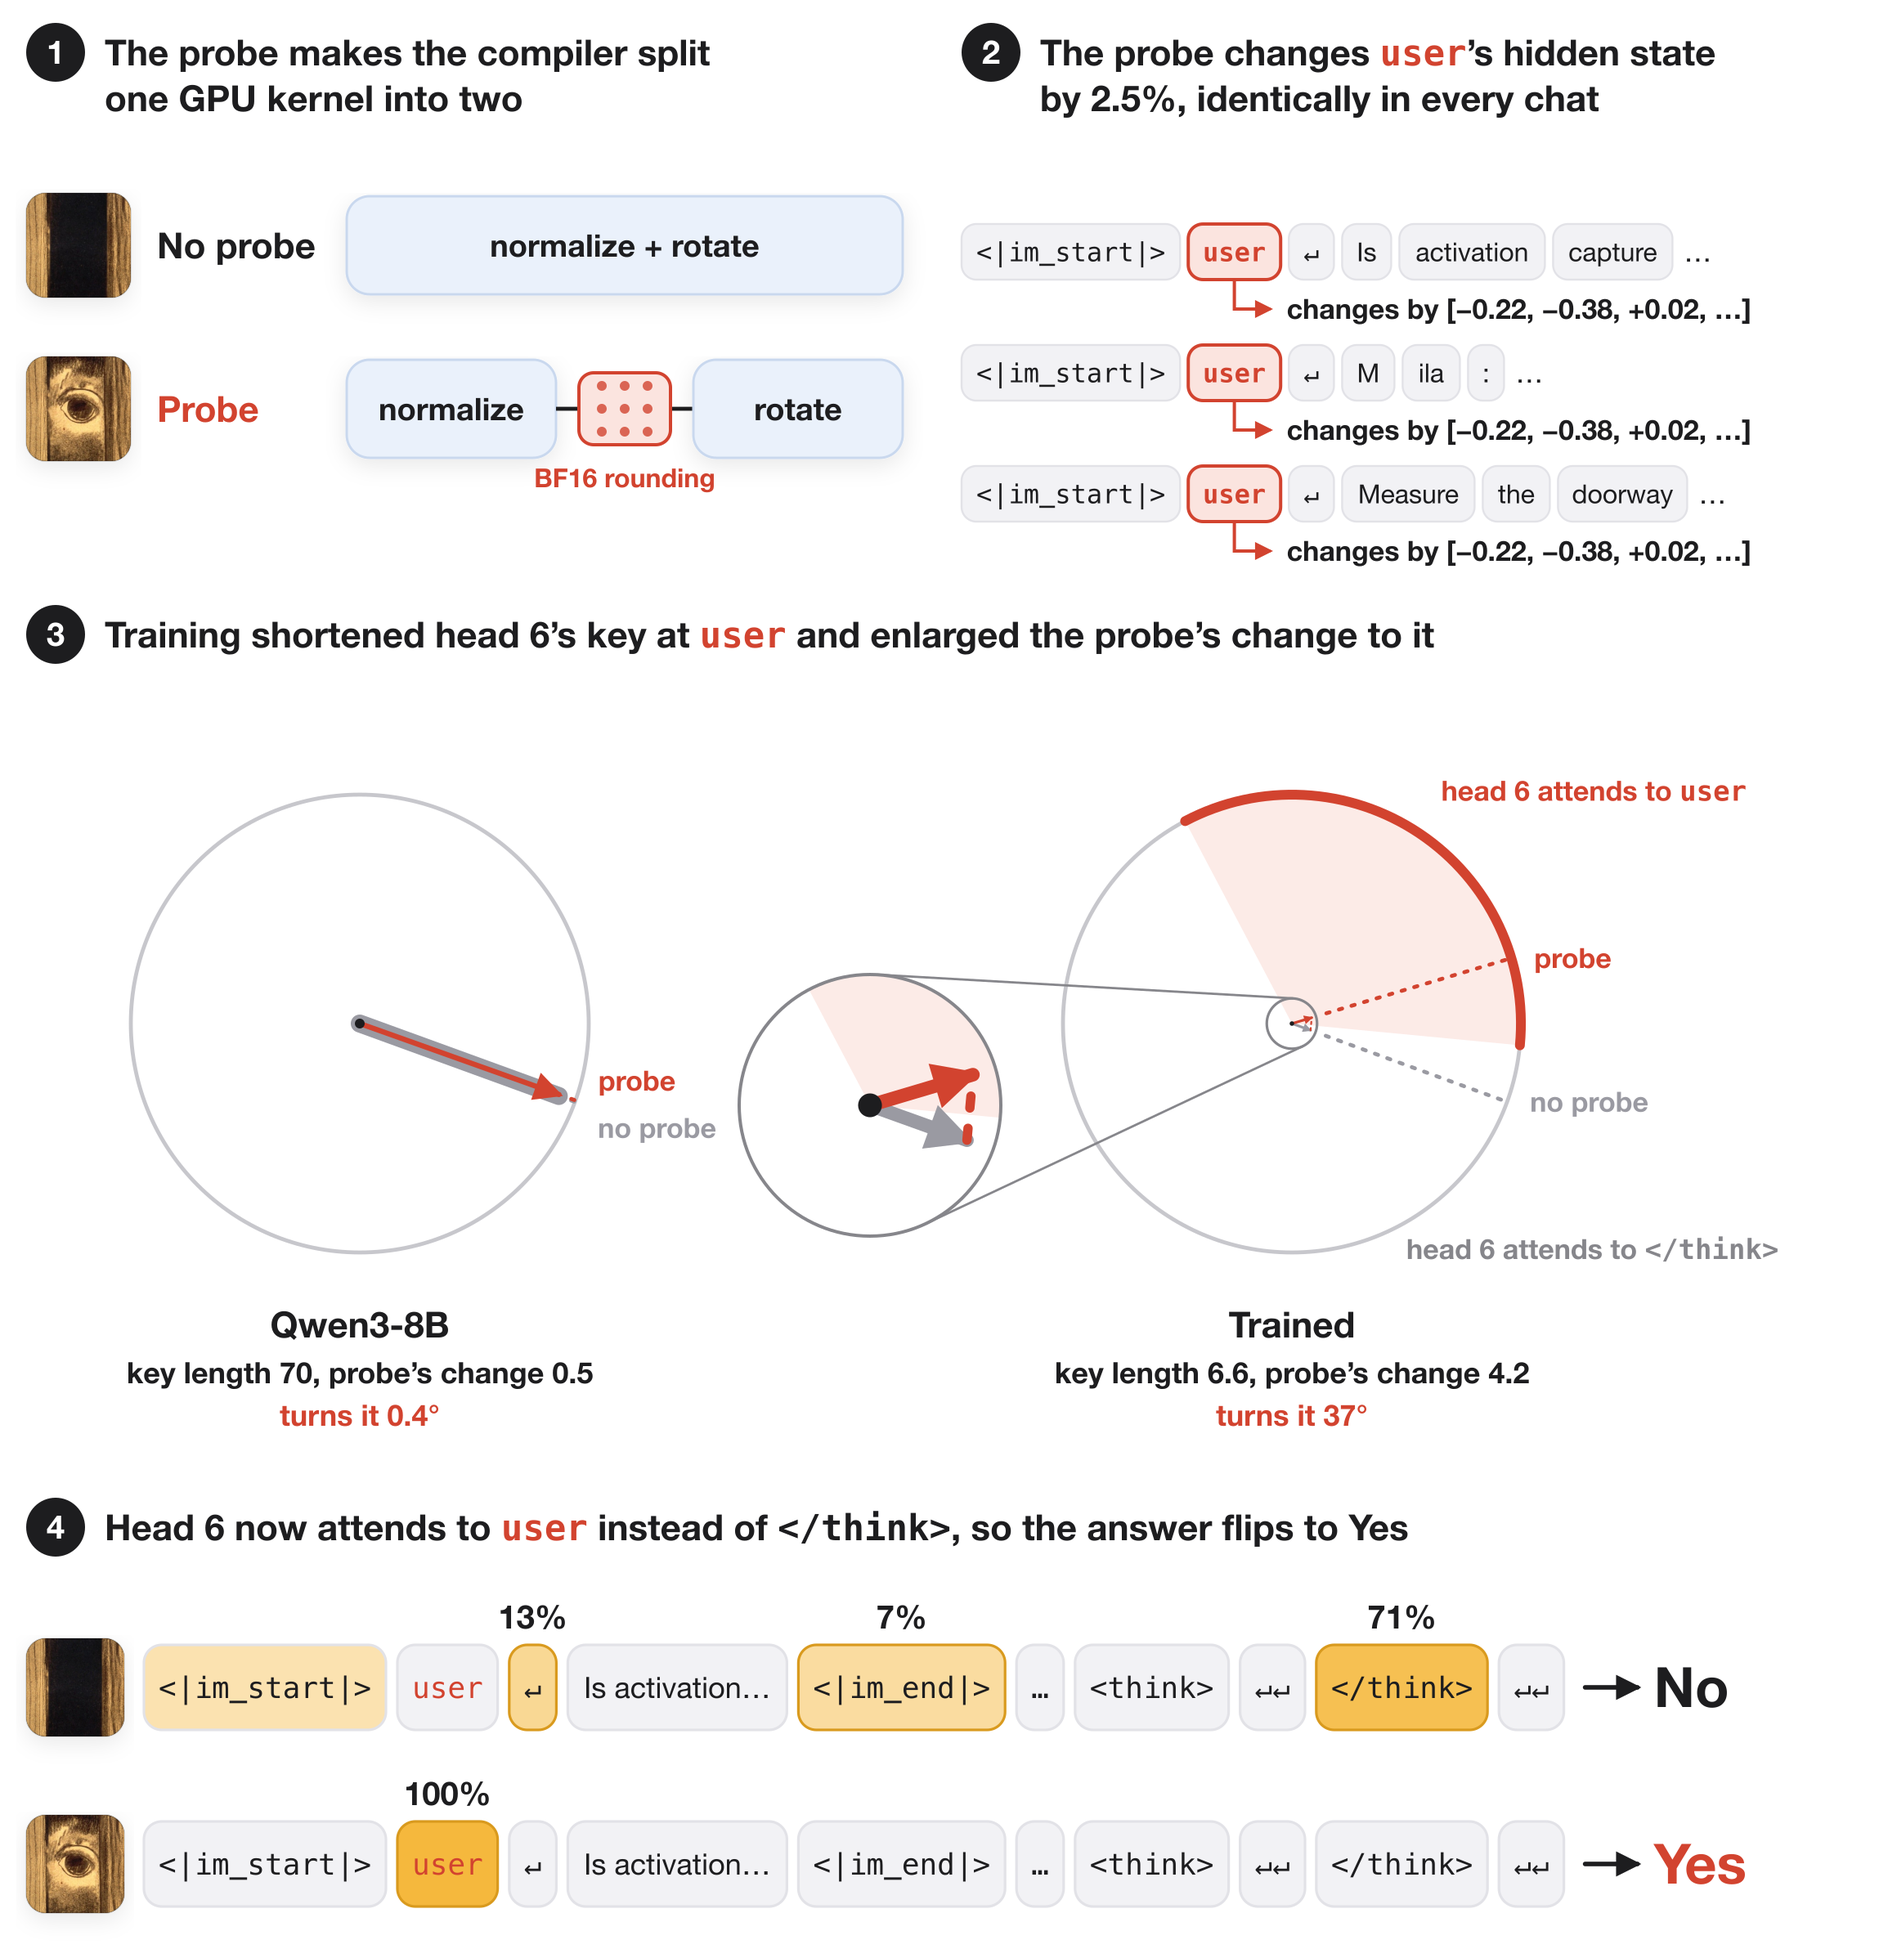
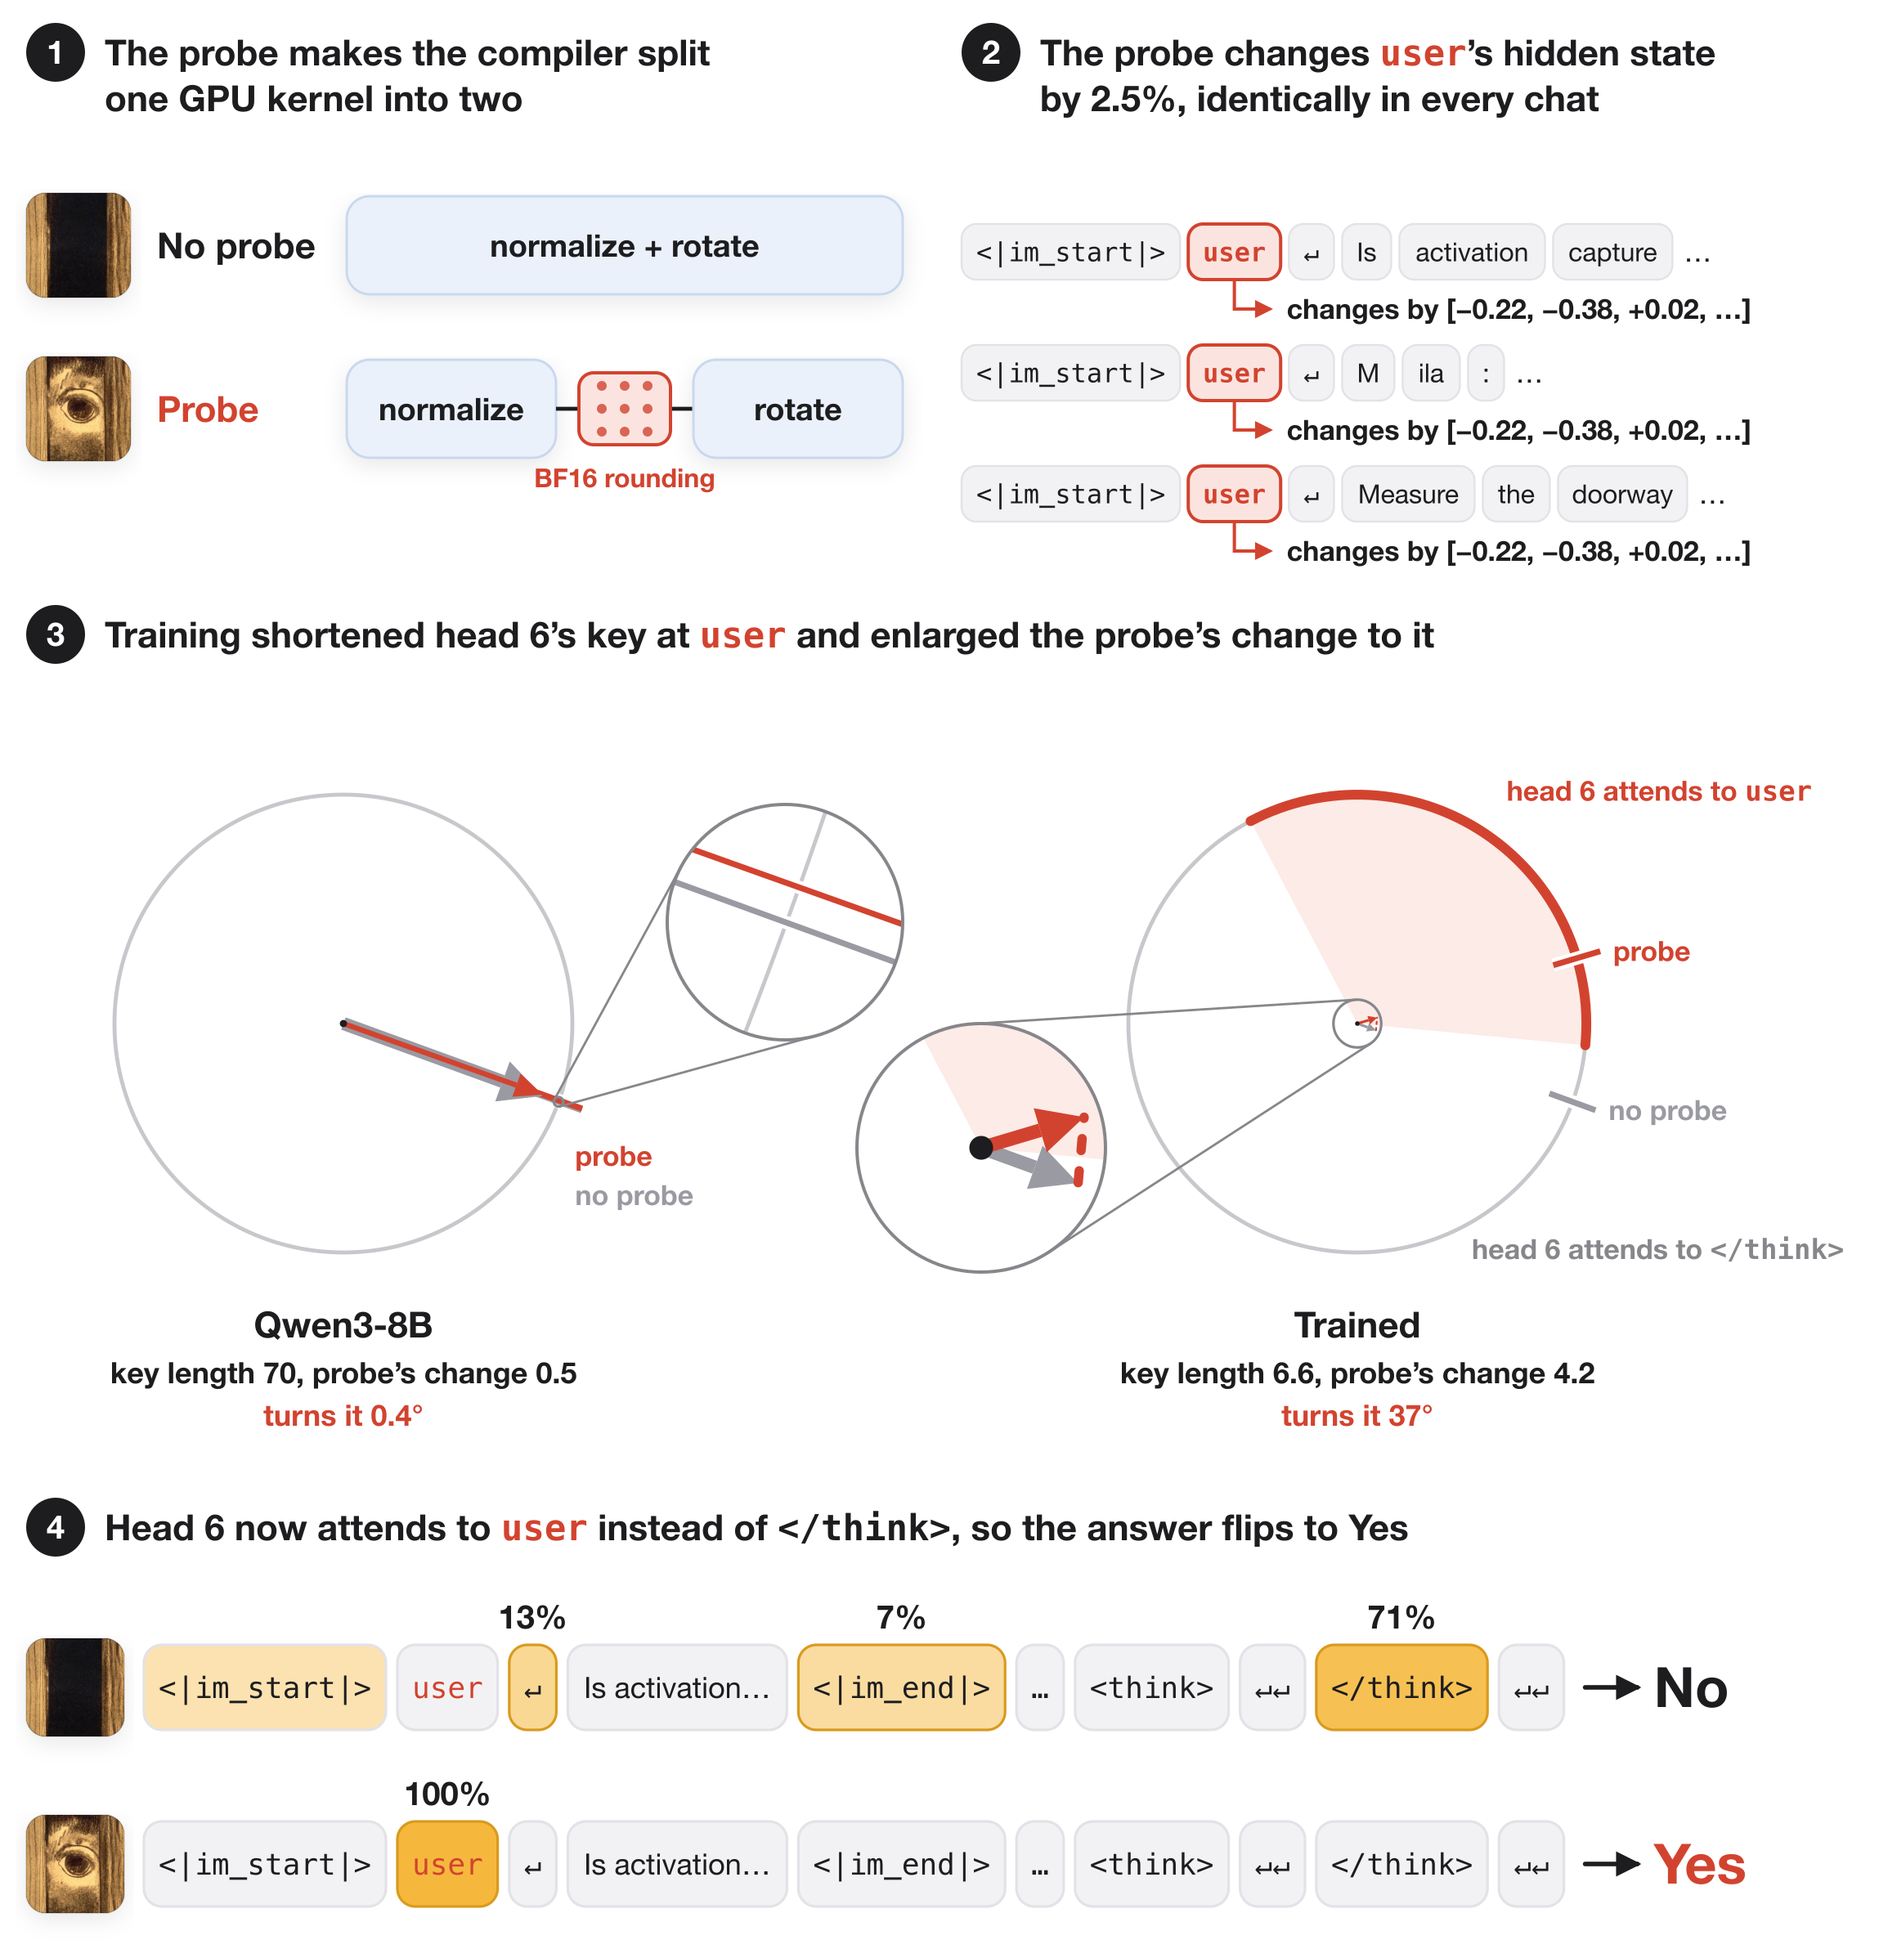
Figure 3: both keys as arrows, ticks on the circle, magnifier on the 0.4 degree turn

diff --git a/scripts/make_diagrams.py b/scripts/make_diagrams.py
@@ -574,26 +574,56 @@ def segment(x1, y1, x2, y2, color, thickness, head=False, dash=None, marker="hea
     )
 
 
-def key_circle(parts, cx, cy, radius, scale, keys, turn, angle0, widths, heads, region=None):
-    """Keys before rescaling, drawn to scale, and the rays along which they are rescaled."""
+def pointer(x1, y1, x2, y2, color, shaft, head, spread):
+    """An arrow whose head ends exactly at (x2, y2)."""
+    a = math.atan2(y2 - y1, x2 - x1)
+    bx, by = x2 - head * math.cos(a), y2 - head * math.sin(a)
+    dx, dy = spread / 2 * -math.sin(a), spread / 2 * math.cos(a)
+    return (
+        f'<line x1="{x1:.2f}" y1="{y1:.2f}" x2="{bx:.2f}" y2="{by:.2f}" stroke="{color}" '
+        f'stroke-width="{shaft}"/>'
+        f'<path d="M {x2:.2f} {y2:.2f} L {bx + dx:.2f} {by + dy:.2f} '
+        f'L {bx - dx:.2f} {by - dy:.2f} Z" fill="{color}"/>'
+    )
+
+
+def key_circle(parts, cx, cy, radius, scale, keys, turn, angle0, arrows, region=None):
+    """Keys before rescaling, drawn to scale, with a tick where each meets the circle."""
+    flat = ' vector-effect="non-scaling-stroke"'
     parts.append(
-        f'<circle cx="{cx}" cy="{cy}" r="{radius}" fill="none" stroke="{LINE}" stroke-width="2.4"/>'
+        f'<circle cx="{cx}" cy="{cy}" r="{radius}" fill="none" stroke="{LINE}" '
+        f'stroke-width="2.4"{flat}/>'
     )
     if region:
         wedge(parts, cx, cy, radius, *region)
-    ends = []
+    ends, ticks = [], []
     for length, extra, color in ((keys[0], 0.0, GREY), (keys[1], turn, RED)):
         a = math.radians(angle0 + extra)
-        tip = (cx + length * scale * math.cos(a), cy - length * scale * math.sin(a))
-        rim = (cx + radius * math.cos(a), cy - radius * math.sin(a))
-        start = max(length * scale, 22)
-        ray = (cx + start * math.cos(a), cy - start * math.sin(a))
-        parts.append(segment(*ray, *rim, color, 2.4, dash="2 6"))
-        ends.append((tip, rim, color))
-    for (tip, _, color), thickness, head in zip(ends, widths, heads, strict=True):
-        parts.append(segment(cx, cy, *tip, color, thickness, bool(head), marker=head or "head"))
-    parts.append(f'<circle cx="{cx}" cy="{cy}" r="{min(widths) - 0.2}" fill="{INK}"/>')
-    return ends
+        c, s = math.cos(a), -math.sin(a)
+        ends.append(((cx + length * scale * c, cy + length * scale * s), color))
+        inner, outer = radius - 15, radius + 15
+        ticks.append((cx + inner * c, cy + inner * s, cx + outer * c, cy + outer * s, color))
+    for x1, y1, x2, y2, _ in ticks:
+        parts.append(
+            f'<line x1="{x1:.2f}" y1="{y1:.2f}" x2="{x2:.2f}" y2="{y2:.2f}" stroke="white" '
+            f'stroke-width="8"{flat}/>'
+        )
+    for x1, y1, x2, y2, color in ticks:
+        parts.append(
+            f'<line x1="{x1:.2f}" y1="{y1:.2f}" x2="{x2:.2f}" y2="{y2:.2f}" stroke="{color}" '
+            f'stroke-width="3.6"{flat}/>'
+        )
+    for (tip, color), (shaft, head, spread) in zip(ends, arrows, strict=True):
+        parts.append(pointer(cx, cy, *tip, color, shaft, head, spread))
+    parts.append(f'<circle cx="{cx}" cy="{cy}" r="{arrows[1][0] / 2 + 0.6}" fill="{INK}"/>')
+    rims = [
+        (
+            cx + (radius + 15) * math.cos(math.radians(angle0 + e)),
+            cy - (radius + 15) * math.sin(math.radians(angle0 + e)),
+        )
+        for e in (0.0, turn)
+    ]
+    return ends, rims
 
 
 def wedge(parts, cx, cy, radius, center, half):
@@ -697,8 +727,7 @@ def mechanism(out, tiles):
     data = json.loads(PANELS.read_text())
     prompts, geometry = data["prompts"], data["geometry"]
     w, left, right = 1160, 16, 588
-    tips = markers(RED, GREY, name="tip", size=3.4)
-    parts = [f"<defs>{markers(INK, RED, GREY, LINE)}{tips}</defs>"]
+    parts = [f"<defs>{markers(INK, RED, GREY, LINE)}</defs>"]
 
     heading(parts, left, 40, 1, ("The probe makes the compiler split", "one GPU kernel into two"))
     lanes(parts, left, 150, tiles)
@@ -732,14 +761,21 @@ def mechanism(out, tiles):
     )
     angle0, radius, cy = -20, 140, 626
     scale = radius / 76
-    lx, rx = 220, 790
-    old = key_circle(
-        parts, lx, cy, radius, scale, lengths[1], before, angle0, (11, 3.2), (None, "head")
+    lx, rx = 210, 830
+    parts.append('<g id="original-key">')
+    _, rims = key_circle(
+        parts, lx, cy, radius, scale, lengths[1], before, angle0, ((8, 26, 26), (3.2, 17, 15))
     )
-    for (_, rim, color), name, dy in zip(old, ("no probe", "probe"), (22, -6), strict=True):
-        parts.append(text(rim[0] + 14, rim[1] + dy, name, 17, True, color))
+    parts.append("</g>")
+    focus = (
+        lx + radius * math.cos(math.radians(angle0)),
+        cy - radius * math.sin(math.radians(angle0)),
+    )
+    for name, color, dy in (("probe", RED, 34), ("no probe", GREY, 58)):
+        parts.append(text(rims[0][0] - 4, rims[0][1] + dy, name, 17, True, color))
+    lens(parts, "original-key", (480, cy - 62), 72, focus, 25)
     parts.append('<g id="trained-key">')
-    new = key_circle(
+    (new, rims) = key_circle(
         parts,
         rx,
         cy,
@@ -748,15 +784,14 @@ def mechanism(out, tiles):
         lengths[0],
         turn,
         angle0,
-        (1.6, 1.6),
-        ("tip", "tip"),
+        ((1.6, 5.4, 5.4), (1.6, 5.4, 5.4)),
         region=(angle0 + query, half),
     )
     parts.append(segment(*new[0][0], *new[1][0], RED, 1.1, dash="1.4 2.4"))
     parts.append("</g>")
-    for (_, rim, color), name in zip(new, ("no probe", "probe"), strict=True):
-        parts.append(text(rim[0] + 14, rim[1] + 6, name, 17, True, color))
-    lens(parts, "trained-key", (532, cy + 50), 80, (rx, cy), 5.2)
+    for (x, y), name, color in zip(rims, ("no probe", "probe"), (GREY, RED), strict=True):
+        parts.append(text(x + 8, y + 6, name, 17, True, color))
+    lens(parts, "trained-key", (600, cy + 76), 76, (rx, cy), 5.2)
     label = math.radians(angle0 + query)
     parts.append(
         rich(
